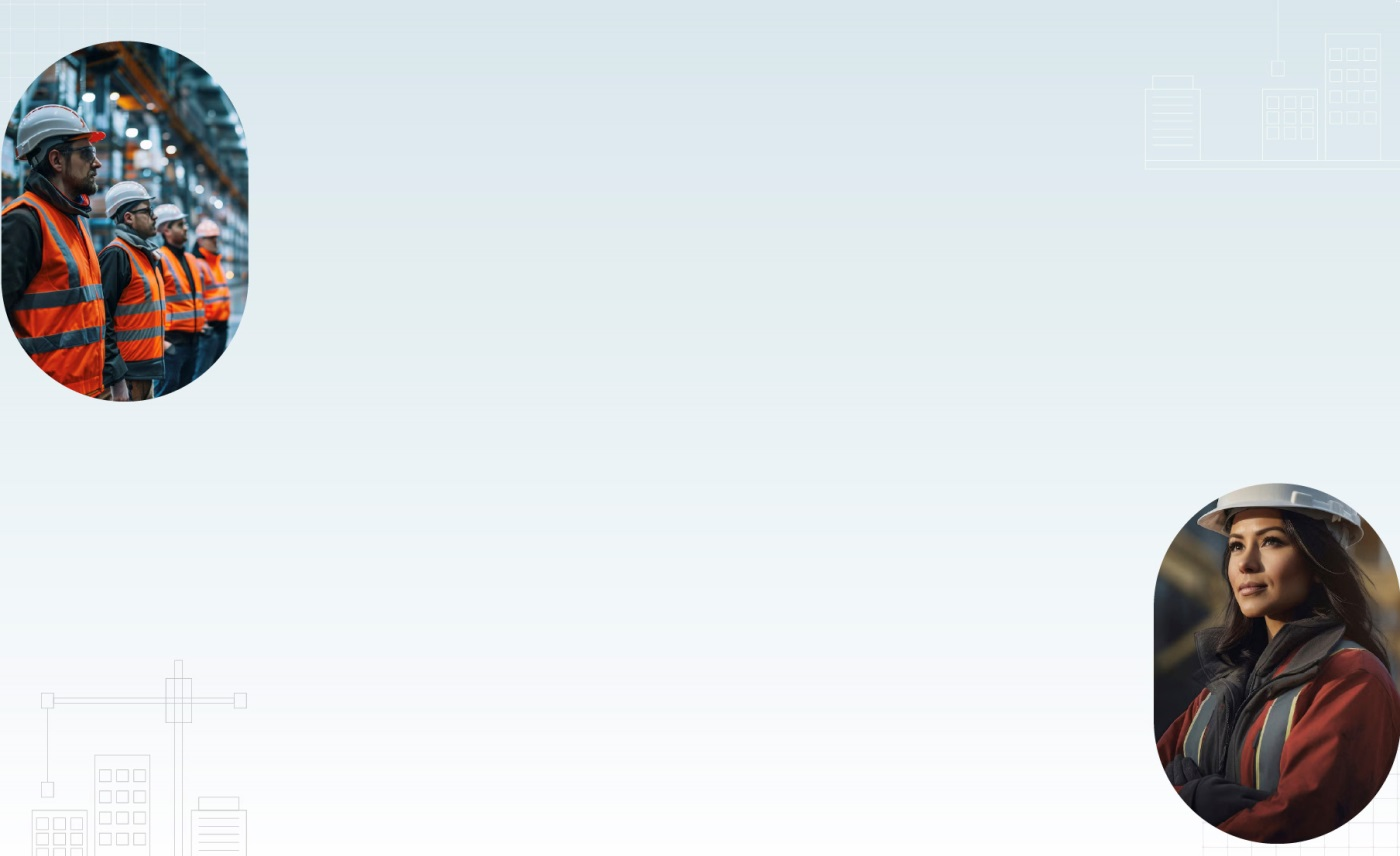
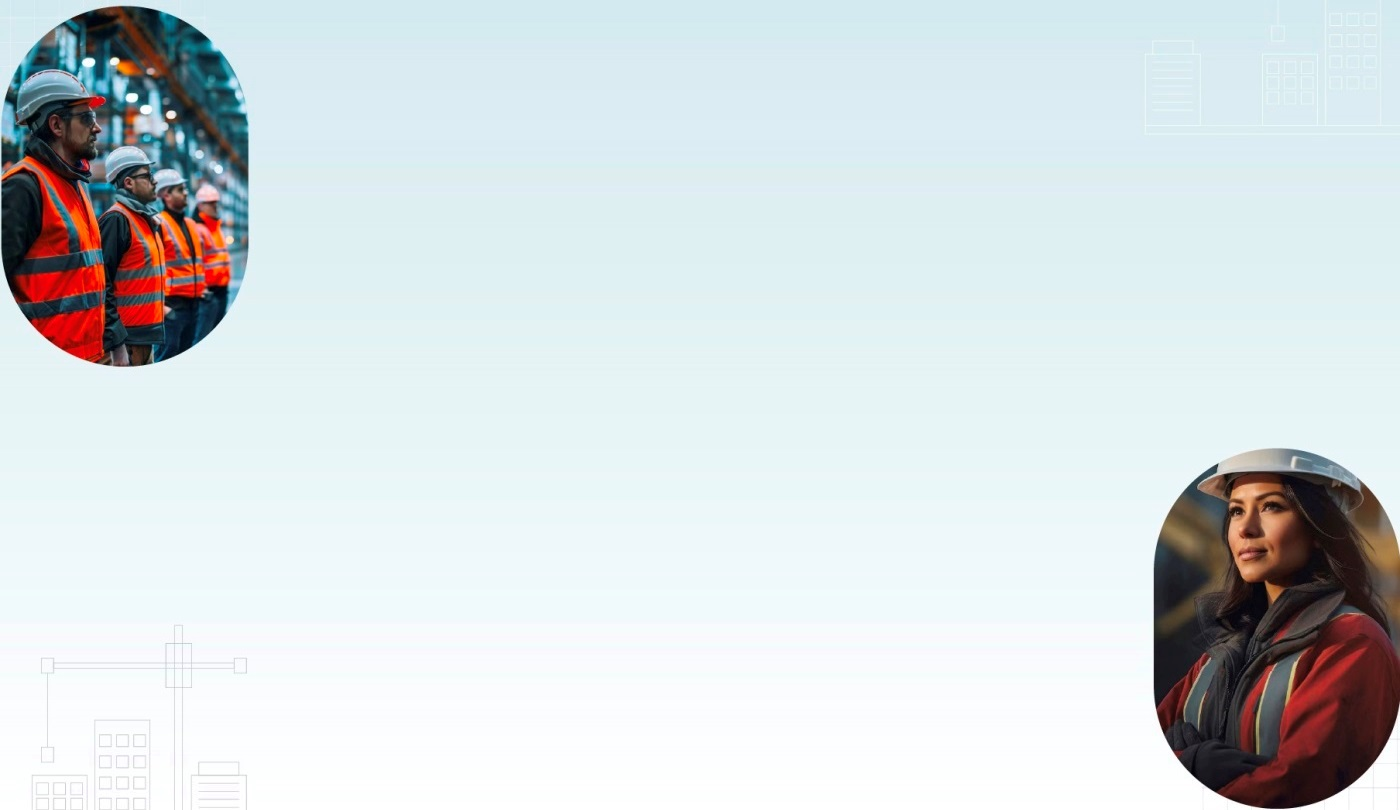
ajustes

diff --git a/template/css/leitor.css b/template/css/leitor.css
@@ -558,7 +558,7 @@ iframe,
 
 
 .img-grande {
-  width: 85% !important;
+  width: 50% !important;
 }
 
 
